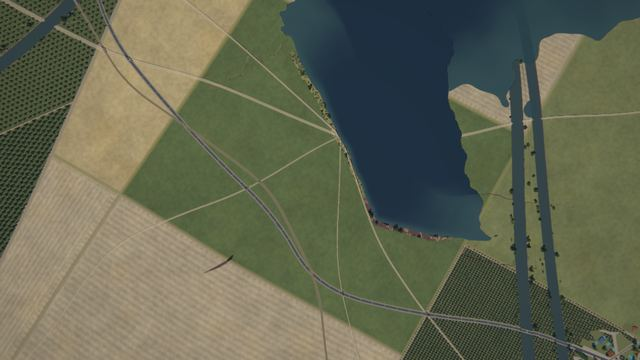
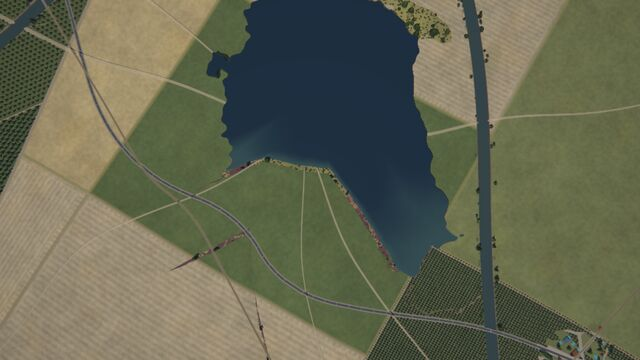
docs: Known limits for the desert, tropical, temperate, cold and agriculture kits; qanats, ranches and feedlots, river water, fishbone, settlement water / exact sites / glow; stills (lake, qanats, feedlot, white- and black-water rivers, fishbone); CHANGELOG

diff --git a/docs/kits/settlements.md b/docs/kits/settlements.md
@@ -74,8 +74,17 @@ cars belong to the transport kit.
 ## Placement and levels of detail
 
 Places of a level are listed (as stamps) for tile areas whose pixel is below 150 m (hamlets),
-800 m (villages), 3 km (towns), 12 km (cities), 50 km (metropolises): a place covers at most
-~0.2 pixel when it is dropped. Sites: airports and ports below 600 m, dams below 1.2 km,
+800 m (villages), 3 km (towns), 12 km (cities), 50 km (metropolises). At coarser pixels the
+level's **glow** takes over (`glow`, WGSL `st_glow`, slot 7): the places expected at the pixel
+(`places::expected_places`: the existence draw of `base_place` by population potential, culture
+and `landuse.towns`, its population and radius draws integrated over their hashes, calibrated
+against the final places by `GLOW_CAL`) times the place model's mean over a footprint (street
+light emission and built cover per R², `GLOW_K*`, `GLOW_J`): a grey urban tint and the street
+lights' mean, so the mean of a coarse pixel matches the finer zooms' and night views from
+altitude keep their lights (a smooth glow following the population instead of discrete spots).
+`glow_keeps_the_mean` (GPU) compares a parent tile's mean emission with its four children's at
+the zooms where a level drops, over eight populated places: 0.99 (z10, hamlets), 1.06 (z7,
+villages), 0.83 (z5, towns), 0.99 (z3, cities). Sites: airports and ports below 600 m, dams below 1.2 km,
 quarries and solar farms below 300 m, wind farms below 150 m, flares below 2.5 km. All host
 results are memoized per lattice cell or place (pure functions of the world).
 
@@ -87,9 +96,28 @@ results are memoized per lattice cell or place (pure functions of the world).
 * **The core's grid towns are off with the kit** (`Kit::replaces_towns`, `kits::legacy_towns()`,
   WGSL `KITS_LEGACY_TOWNS`): no town site in pass A, no town requests, no town code in pass B.
   The core's farmsteads stay (dispersed farmsteads between the hamlets).
-* **No river access in the scores**: the CPU drainage per candidate costs too much for an
-  analytic API; water access comes from the atlas coast distance. Dams use the CPU drainage
-  (`World::river_segments`, levels 0–1) on the host, once per dam source.
+* **Water in the scores** (hamlets and villages): a candidate whose centre lies in open water
+  (pass A at the point, `World::terrain`: the sea, lattice and closed-basin lakes, the kits'
+  lakes, a level 0–1 river channel) is dropped; water on a ring of 4 points at 0.8 × the level's
+  smallest radius lowers its score (× 0.3–1), a level 0–1 river within 2.5 km raises it (up to
+  × 1.3: crossings, mills, river ports). Host Rust, analytic, the same for both backends. Towns
+  and larger keep the smooth-relief test only: the transport kit's trunk networks visit their
+  candidates over thousands of kilometres (370 000 town candidates for one 2.5 km view), where
+  pass A at points (~2 ms) costs minutes; at villages and hamlets the test costs ~7 % of a
+  survey view's generation. (The transport routing's `Scene` was tried first: a scene per
+  block costs ~70 ms.) Reservoirs come after
+  the places (dams are placed near towns): hamlets and villages whose centre a reservoir floods
+  (> 1 m) are drowned (not drawn; `sites::drowned`), and a dam whose reservoir would flood a town
+  or a city is not built.
+* **Sites are the same on both backends**: their decisions take the backend's point samples where
+  they are clear by a margin (`sites::TIE_H` = 0.5 m) and re-take close ones with exact samples
+  (`World::terrain`, the CPU backend's own): airports evaluate their candidates in the order of
+  their backend range until the next cannot beat the best exact one, dams likewise by score (a
+  candidate near a threshold first), ports re-sample the ray samples near sea level or a lake's
+  level, quarries, wind farms, flares and solar farms near a threshold; the heights a site keeps
+  (airport grade, dam crest, wall ends, quarry floor) come from exact samples.
+  `sites_and_routes_match_the_cpu` (GPU) checks the stamps and segments of six places bit for
+  bit (the decks of engineered road profiles aside).
 * **Quarries change the DSM only** (pass B): the drainage does not see the pits.
 * **Pass B in four stages** (`[0, 3, 5, 7]`): the kit's built layer is in the linear–built stage,
   its water layer (reservoirs, dams, port piers) in the canopy–seasonal stage.
@@ -114,6 +142,11 @@ N-S, determinism (fresh generators and caches), `tiles_match_the_cpu` (22 tiles 
 kernel parity test).
 
 ## Compile time and performance
+
+After the leftover round (water, exact sites, glow; all kits): P4 cold pass B 31.4 / 28.6 / 19.7
+/ 26.0 s (the glow adds ~1.4 s to the linear–built stage; the first stage, unchanged, varies
+±1.5 s with the farm's load), points 22.7 s, drainage heights 17.3 s. The water test costs ~7 %
+of a survey view's generation (59.6 s vs 55.7 s for a 2.5 km nadir view).
 
 Cold compile on a Tesla P4 (`compile_times`, one pipeline at a time, all eight kits): pass B
 31.2 / 29.1 / 16.7 / 25.3 s in four stages (the first two stages do not contain the kit); pass
@@ -161,9 +194,12 @@ villages and farmsteads as points.
 
 ## Known limits
 
-* Places score flatness and coast access, not rivers; a town may sit on a lake shore or across
-  a small valley, and its lots do not follow the terrain beyond the slope gate and the river
-  banks.
+* Only hamlets and villages test their centres against pass A's water and score rivers; towns,
+  cities and metropolises keep the smooth-relief sea test (their candidates are too many for
+  point evaluations), so a town's centre can still lie in a lake or a river. A town's lots do not follow the terrain beyond the slope gate and
+  the river banks; its footprint may still reach into a lake or river.
+* Confluences and river mouths get no extra bonus beyond the river's proximity (the coast bonus
+  is the atlas coast distance).
 * Streets are not connected between districts (district edges are arterials) nor to the core's
   rural roads; the transport kit's graph will link places.
 * Towers cast shadows only within their own block (3 steps of 3.5 m); tall towers' long shadows
@@ -177,7 +213,11 @@ villages and farmsteads as points.
 * Ports exist where a point-sample ray finds the ocean within R + 12 km (10 of 13 coastal towns
   in `debug_ports`); estuaries and lakes have no ports.
 * Quarries are pass-B pits; their floors are not drainage sinks.
-* Hamlets below 150 m pixels, villages below 800 m, towns below 3 km are not drawn (their lights
-  vanish from night views at those zooms).
+* Hamlets below 150 m pixels, villages below 800 m, towns below 3 km are drawn as the expected
+  glow, not as places: the mean matches (statistically, over many places), the texture does not
+  (a smooth glow following the population field instead of discrete spots, also where the
+  actual places of a region happen to be few).
+* Reservoirs drown hamlets and villages (they are not drawn) instead of moving them; the
+  transport kit's graph still routes to them and ends its roads at the shore.
 * Night lights: no lit facades of towers beyond the window rims, no interchange lighting
   (transport kit).

diff --git a/docs/kits/tropical.md b/docs/kits/tropical.md
@@ -54,6 +54,21 @@ lists and costs ~5 cell hashes per sample after the bound test.
 | `tropical_cloud_forest` | zone below 17.5 °C | dense low mossy canopy, tree ferns, landslide scars on steep slopes |
 | `tropical_paramo` | zone below 10 °C | tussock grass, silvery frailejón rosettes, tarns |
 
+**River water** (slot 8, `rivers`; design P0): tropical lowland rivers take the colour of their
+water. Major rivers (half width > 25 m) are white-water (café au lait, lighter where wide); the
+smaller ones are black-water (tea-black) in the very wet lowlands (moisture > 0.62) of a
+regional style channel's provinces, else muddy; so black tributaries meet a muddy main stem. The
+colour takes over from the core's between 18 and 21 °C and below 600–900 m.
+
+**Fishbone deforestation** (canopy slot, `fishbone`; design P3): colonization projects in the
+rainforest lowlands (22 km blocks of the tangent plane of a 200 km anchor, 30 % of them by a
+hash; the climate gates the forest, development ≤ 0.65): a trunk road through the project,
+feeder roads every 4.4 km at right angles, and along every road lots of 250 m each cleared from
+the road to a depth of its own (to 3 km, deeper near the trunk road: older) — pasture, fresh
+burns, red soil, crops, regrowth — so the clearings form fishbones from altitude. Red laterite
+tracks; the clearings reset the canopy's height and shadows. The kit's own spines, not the
+transport kit's roads.
+
 Laterite: red soils (`laterite` palette, `vegetation.laterite`) in every lowland biome. Cloud
 forest and páramo are the altitudinal zones of the forest and savanna biomes (`zonation`); they
 are never picked by an ecoregion (an impossible envelope keeps them out of the nearest-envelope
@@ -73,8 +88,6 @@ Classes (v2): `tropical_rainforest`, `mangrove`, `broadleaf_forest`, `woodland`,
   along-coordinate `s`, its curvature sign and the bend's inner side in `Local`; meandering
   channels need the drainage to meander. The kit draws meander *scars* beside the rivers
   (a mask on `river_dist` and `floodplain`), not the river's own bends.
-* **River colour by ecoregion** (muddy white-water, black-water, sediment plumes): a palette
-  entry for the river surface read by `layers::water::rivers`.
 * **Coast distance at pixel resolution.** `coast_km` comes from ~20 km atlas texels and can miss
   the pixel coast by hundreds of km (237 km at a beach of the default world), so the mangroves
   use the height near sea level instead.
@@ -114,6 +127,17 @@ floodplain (in the core alone this place was mostly fields).
 
 ![oxbow lake 300 m](images/tropical_oxbow_300m.jpg)
 
+**River water**: a white-water river (21.212, −20.262), nadir 800 m; a muddy and a black-water
+river side by side (4.628, 5.338), nadir 800 m.
+
+![white-water river 800 m](images/tropical_whitewater_800m.jpg)
+![black-water river 800 m](images/tropical_blackwater_800m.jpg)
+
+**Fishbone deforestation** (−5.520, 111.780), nadir 12 km: ribs of cleared lots along the
+feeder roads of two colonization projects in the forest.
+
+![fishbone 12 km](images/tropical_fishbone_12km.jpg)
+
 **Monsoon forest mosaic** (−17.95, −128.59): semi-deciduous forest and savanna glades, small
 burns and swidden plots.
 
@@ -141,3 +165,28 @@ burns and swidden plots.
   "rainforest" and "savanna" places are no longer tropical biomes in the atlas world) the
   difference is within the run-to-run noise (±2 %).
 * `places` and `find_places` (ignored) list where the biomes and features occur.
+
+## Known limits
+
+* Burn scars are large blobs of one age with a uniform charred interior (ash streaks aside) and a
+  lobate edge: from 1.5 km they read too uniform; fires do not stop at roads, rivers or fields.
+* Flowering crowns (yellow, pink-red) are saturated and evenly spread: from altitude the canopy
+  shows confetti-like dots.
+* Meander scars, oxbows and scroll bars are drawn beside the rivers (a mask on `river_dist` and
+  `floodplain`), not as the river's own bends: the live channel keeps the core's smooth
+  meander, so oxbows lie next to a river that does not meander at their scale.
+* Mangroves are rare in the default world: they need low tropical coasts below ~3–5 m inside
+  tropical ecoregions, and near-shore water whose ecoregion site lies at sea takes that site's
+  biome (see *What needs the core*). No still shows them yet.
+* River water by type (white-water, black-water) is a per-pixel choice by the river's width,
+  the moisture and a regional style channel: a tributary can change colour where the style
+  channel crosses its threshold, not only at its confluence.
+* No deltas: river mouths end at the coast without distributaries or sediment lobes (the design's
+  pass-A delta stamps at level-0 mouths are not built: the mouth must be found on the drawn coast,
+  not at the coarse drainage lattice's sea points, and the lobes must be relief).
+* Fishbone projects follow their own spines (a grid in the plane of a 200 km anchor), not the
+  transport kit's roads, and end at their 22 km block's edges; their feeder roads are 6 m tracks
+  (invisible from 12 km, where only the ribs of clearings show); red bare-soil lots read
+  saturated; the clearings ignore rivers and slopes below the 0.3 gate.
+* Rivers that join run side by side for a while before their confluence (the core's drainage
+  curves meet tangentially), as in the black-water still.

diff --git a/docs/kits/desert.md b/docs/kits/desert.md
@@ -59,6 +59,16 @@ outside the sand seas.
 braided threads of gravel and sand bars parallel to the banks that merge and split; acacia and
 tamarisk along them, oasis gardens and date palm groves on some stretches (biome layers).
 
+**Qanats.** Underground channels from a mother well at the foot of the mountains down to an
+oasis, seen as dotted lines of shaft mounds: rings of pale spoil 8–13 m across around a dark
+shaft every 30–55 m. Host-built (`qanat_group`, shared by both backends): a lattice of 9 km
+cells holds a group where the culture digs them (desert oasis, highland, steppe and
+Mediterranean archetypes, fewer with development), the climate is arid and warm and the ground
+a piedmont (the smooth relief's slope 0.8–6 % with mountains near); 1–3 lines fan out upslope
+from a common outlet, each 3–8 km long with a bend, as segments of kind 64. The layer (slot 6,
+`qanats`) draws the mounds, or their mean along the line where they are below the pixel; not
+in sand seas. Listed below 60 m pixels.
+
 **Colour and biomes.** Sand takes the biome's sand palette by the regional style, tinted by the
 ecoregion's lithology: iron-red on crystalline rock, pale on carbonate, yellow on unconsolidated
 sediment, dark grey to black (class `volcanic_ash`) on volcanic rock. Biomes (by Köppen class,
@@ -90,6 +100,7 @@ GPU renders of the default world (`terrain survey`, 10:30 local solar time, equi
 | ![linear dunes, 10 km](images/desert_linear_10km.jpg) linear (seif) dunes and dark corridors, 10 km (23.54, 43.23) | ![star dunes, 1.5 km](images/desert_star_1500m.jpg) star dunes, 1.5 km (−31.15, −166.35) |
 | ![barchans, 1.5 km](images/desert_barchans_1500m.jpg) barchans on the stony fringe of an erg, 1.5 km (20.84, −50.06) | ![barchans, 300 m](images/desert_barchans_300m.jpg) a barchan, varnish and sand streaks, 300 m |
 | ![playa, 300 m](images/desert_playa_300m.jpg) salt crust and cracks of a playa, 300 m (−11.86, −162.15) | ![dry lake, 1.5 km](images/desert_drylake_1500m.jpg) a lake dried into a salt pan with brine pools, 1.5 km (−12.41, −155.10) |
+| ![qanats, 800 m](images/desert_qanats_800m.jpg) two qanat lines of shaft mounds converging downslope, nadir 800 m (27.049, 34.401) | |
 
 ## Performance
 
@@ -123,3 +134,23 @@ so they cost little outside deserts.
 * ignored tools: `desert_places` (places of the default world by landform),
   `desert_previews` (`DESERT_PNG=dir`, nadir rgb and hillshade at the kit's places or
   `DESERT_AT="lat,lon;…"`, `DESERT_Z`, `DESERT_CPU`), `desert_probe`.
+
+## Known limits
+
+* Desert varnish and gravel mottling are noise patches (`patches` kernel layers): from 1.5 km up
+  they read as blotches of uniform size rather than varnish streaks following the slope.
+* The core's drainage still runs through the sand seas: where the sand mask is high the kit
+  takes the dunes over but not the channels, so a regular grid of straight washes can cross an
+  erg (the core does not yet skip drainage carving where `sand` > 0.5).
+* Lakes inside ergs are drawn as water in humid-enough cells (the dry-lake layer dries them
+  only where the climate is arid); an erg with an open lake can result at its wetter margin.
+* Playas and inselbergs are families of 36 km and 16 km cells: at zooms 8–9 a few blocks list
+  more than 8 instances and the generator warns (both backends keep the first 8 by id; deeper
+  zooms are unaffected).
+* Dunes are relief of pass A, barchans a height added in pass B (not in the DTM or the
+  drainage); yardangs are colour and pass-B height only.
+* Star dunes are 100–300 m high and up to 1.15 km in radius, smaller than the largest real
+  ones (Badain Jaran); linear dunes do not branch around obstacles (inselbergs, playas).
+* No stills yet of inselbergs, yardangs or the gypsum and basalt biomes.
+* Oases, palm groves and qanats are drawn by the agriculture kit (groves) and this kit
+  (qanats, below the oasis fields); see their sections.

diff --git a/CHANGELOG.md b/CHANGELOG.md
@@ -2,6 +2,41 @@
 
 ## Unreleased
 
+- **Qanats** (desert kit, design P2): dotted lines of shaft mounds (pale spoil rings around a
+  dark shaft every 30–55 m) from the piedmont down to a common outlet, 1–3 lines of 3–8 km per
+  group; host segments (`qanat_group`, 9 km lattice, by culture, aridity and the smooth relief's
+  slope), drawn in slot 6 with their mean along the line below the pixel.
+- **Ranches and feedlots** (agriculture kit, design P2): a `ranch` field system (2.2 × 1.5 km
+  paddocks, stock trails to troughs, farm dams, savanna trees where warm), weighted to semi-arid
+  steppe climates and pastoral, steppe and survey-grid cultures; feedlots in some ranch regions
+  (slot 6): pens of dark manure along feed alleys and bunks, cattle, a feed mill with silage
+  bunkers and silos, two manure lagoons.
+- **Fishbone deforestation** (tropical kit, design P3): colonization projects in the rainforest
+  lowlands with a trunk road, feeder roads every 4.4 km and lots of 250 m cleared from the roads
+  to depths of their own (pasture, fresh burns, red soil, crops, regrowth), in the canopy slot.
+- **Tropical river water** (tropical kit, design P0): white-water rivers in café au lait, black-
+  water rivers (tea-black) in the very wet lowlands of a regional style channel's provinces,
+  slot 8 over the core's river colour.
+- **Known limits** sections in the desert, tropical, temperate, cold and agriculture kit docs.
+
+- **Settlements avoid open water and like rivers.** Hamlet and village candidates whose centre
+  lies in the sea, a lake or a level 0–1 river channel (pass A at the point) are dropped, water
+  on a ring around a candidate lowers its score, a river within 2.5 km raises it (design §6.1
+  water access); towns and larger keep the smooth-relief test (their candidates are visited
+  over continents by the transport kit's trunk networks). Hamlets and villages flooded
+  by a reservoir are drowned (not drawn), and a dam that would flood a town or a city is not
+  built. Test `places_avoid_open_water` (0 of 362 centres in pass A's water).
+- **Sites are backend-independent.** Airports, dams, ports, quarries, solar and wind farms and
+  flares take close decisions (within 0.5 m of a threshold or of a competitor) with exact
+  samples (`World::terrain`, the CPU backend's own) and keep exact heights, so GPU (f32) and CPU
+  (f64) point samples build the same sites, and the transport kit the same network: new GPU test
+  `sites_and_routes_match_the_cpu` (stamps and segments bit for bit at six places).
+- **Settlement glow at low zooms.** Where a level's places are no longer listed (hamlets below
+  z11, villages below z8, towns below z6, cities below z4), the settlements kit draws their
+  expected built cover and street lights per pixel (`places::expected_places` × the place
+  model's mean over a footprint, calibrated against the final places), so night views from
+  altitude keep their lights and coarse pixels keep the finer zooms' mean.
+
 - **Drainage: no straight trenches into inland basins.** A lattice point without a lower
   neighbour looked up to 3 cells farther for an outlet anywhere; inland that drew channels up to
   24 km long, straight across the higher ground between (canal-like water strips, several

diff --git a/docs/kits/agriculture.md b/docs/kits/agriculture.md
@@ -27,6 +27,14 @@ share for the core's fields. Systems change at region and ecoregion borders, nev
 | greenhouse seas | white plastic bays in different states, irrigation ponds |
 | pastures | paddocks, livestock trails to troughs, farm dams, hay meadows, savanna trees in warm climates |
 | irrigated pivots | centre pivots in the desert |
+| ranches | huge fenced paddocks (2.2 × 1.5 km), stock trails converging on troughs, farm dams, savanna trees where warm; feedlots |
+
+**Ranches and feedlots** (design §5.8, P2). Ranches weigh most in semi-arid steppe climates (BSh,
+BSk × 3), on tropical savannas, in the survey-grid, steppe and pastoral cultures; never in oceanic
+or polar ones. Some ranch regions (20–65 % by development) hold a **feedlot** (slot 6,
+`feedlot`, in the region frame): a lot of 440–960 × 280–600 m of pens (40 × 60 m) in double rows
+along 12 m feed alleys with concrete bunks, dark manure, cattle; a feed mill with silage bunkers,
+a shed and silos at one end; two manure lagoons in embankments beyond the other. No pivots.
 
 Parcels are crisp units with hashed ids; rows, furrows, crowns and trails are band-limited and
 blend to the system's mean at coarse pixels. Field tracks only: roads are the transport kit's.
@@ -65,6 +73,11 @@ equinox. Lat, lon in brackets.
 ![greenhouses](images/agriculture_greenhouse_1500m.jpg)
 ![pasture](images/agriculture_pasture_1500m_nadir.jpg)
 
+**Ranch with a feedlot** (16.294, 149.333), nadir 2.5 km: pens along feed alleys, the feed mill
+at the west end, two manure lagoons east of the lot; ranch paddocks with savanna trees around.
+
+![feedlot 2.5 km](images/agriculture_feedlot_2500m.jpg)
+
 ## Tests
 
 * `registry_compiles`, `wgsl_tables_are_current` (`AERIALSYNTH_BLESS=1` rewrites the tables),
@@ -87,3 +100,20 @@ kit's `KITS` entry commented out (mean of two runs, tiles/s; shared machine, +-3
 | z12 | 114.7 | 112.9 | 1.5 % |
 | z14 | 111.6 | 108.4 | 2.9 % |
 | z16 | 116.8 | 113.5 | 2.9 % |
+
+## Known limits
+
+* Smallholder mosaics read as a fine speckle at 10 km: their 20–60 m plots are just above the
+  pixel there, so each pixel takes one plot's colour (salt and pepper) instead of a smoother mean.
+* Bright parcels (greenhouses, fallow, fresh stubble) read as white quadrilaterals in high
+  oblique views (10 km and above) where the region's system has large parcels.
+* One field system per land-use region (~7 km): systems change at region and ecoregion borders,
+  along the region lattice's (warped) cell edges, not along roads or rivers.
+* Parcels are laid out in the region's frame and do not follow the transport kit's roads: field
+  edges and road verges cross at arbitrary angles; only the kit's own field tracks belong to
+  the parcels.
+* Crop states come from the ecoregion's season, not from a date (paddies flooded, green or ripe
+  per ecoregion); the renderer's seasons are not yet wired to the fields.
+* Terraces are contour stripes of pass B (colour and DSM height), not steps of the DTM.
+* Ranches and feedlots are drawn only in the semi-arid grazing systems (see *Ranches and
+  feedlots*); there is no aquaculture inland (salt and aquaculture ponds belong to the coast).

diff --git a/docs/kits/transport.md b/docs/kits/transport.md
@@ -238,7 +238,7 @@ running alongside, cleared verges; **switchbacks** on a snowy slope (−24.187, 
 ![switchbacks 400 m](images/transport_switchbacks_400m.jpg)
 
 **Around a lake** (−7.486, −18.715): a major road bends round the lake's southern shore,
-local roads end on the shore where a hamlet's centre lies in the water; **river crossing**
+local roads end on the shore; **river crossing**
 (−7.547, −18.796): two secondary roads cross a 134 m river side by side at the narrowest,
 square-on reach.
 ![lake 800 m](images/transport_lake_800m.jpg)
@@ -276,9 +276,9 @@ road and a track through forest nearby (−7.619, −16.609) from 500 m.
   dropped (the graph adds no alternative): 2–5 % of the edges in lake districts and around
   reservoirs, 0–2 % elsewhere (`routing_time`, `TR_WHY=1` lists them). Ends in water (a hamlet in a
   reservoir, a track end in a lake) move to the shore, leaving the road short of the place.
-* Sites need point samples, so routes now depend on them too: within a process the site cache
-  makes both backends share them; across processes (GPU f32 vs CPU f64 samples) an airport whose
-  candidates score within a hair of each other could move and with it a route.
+* Sites need point samples, so routes depend on them too; the settlements kit re-takes close
+  site decisions with exact samples, so both backends build the same sites and routes
+  (`sites_and_routes_match_the_cpu`).
 * River crossings are counted in each drainage level's meander-warped space between the grid
   nodes, an approximation of the drawn channel: crossings are near perpendicular (mean sin 0.87
   at the verification's crossings), but their number is mostly set by the network (a road

diff --git a/docs/kits/cold.md b/docs/kits/cold.md
@@ -91,3 +91,22 @@ ponds.
   is ragged with fine noise and a snow net along ~18 m polygon troughs.
 * The temperate kit's `forestry` is zero where the biome's trees are below 0.6 (forest tundra,
   tundra, polar desert): no managed stands there.
+
+## Known limits
+
+* Snow-covered clear-cuts of the temperate kit's managed boreal forest read as crisp white
+  rectangles in the snowy taiga (kettle still); the cuts and the snow are both correct, but the
+  stands' straight edges are conspicuous under snow.
+* Glaciers, moraines and seasonal snow are pass-B surfaces (colour, class, height in the
+  seasonal slot): the DTM and the drainage keep the valley below them; troughs and cirques come
+  from the mountains kit's carve hook, not from the glaciers drawn here.
+* Sea ice is a function of the atlas' temperature at the ecoregion's date and of the depth: no
+  drift, no polynyas tied to winds or coasts; leads and pressure ridges are noise patterns.
+* Kettle and thermokarst lakes are lattices tested per pixel: their existence near a lattice
+  site's threshold is decided at the site (both backends agree), but the transport kit's routing
+  only estimates their mask from pass A's values and the relief's slope.
+* Drumlin fields take one ice-flow azimuth per field (no fanning around obstacles); eskers are
+  sinuous ridges independent of the drainage.
+* Pingos and polygons ignore the drainage: polygons continue across small streams.
+* The snow line uses the warmest-month temperature and aspect, not avalanche paths or wind
+  redistribution: snow fields have smooth edges on steep ground.

diff --git a/docs/kits/temperate.md b/docs/kits/temperate.md
@@ -113,3 +113,22 @@ kit's `KITS` entry commented out (mean of two runs, shared machine, so +-3 % noi
 | z12 | 120.3 | 117.5 | 2.3 % |
 | z14 | 116.5 | 112.4 | 3.5 % |
 | z16 | 123.4 | 116.8 | 5.4 % |
+
+## Known limits
+
+* Regrowth on clear-cuts is a uniform lime green (grass and fireweed, then young rows): from
+  1.5 km up a cut of a few years reads as a flat bright rectangle; there is no gradient of ages
+  within a stand.
+* Managed stands are a brick pattern of rectangles in the land-use region's frame: their edges
+  are straight and axis-aligned within a region, regardless of slope, streams and roads; under
+  seasonal snow the cuts read as white rectangles in the forest (the cold kit's kettle still).
+* Bogs, string bogs and fens are drawn by masks on the drainage and the relief (no peat
+  hydrology): a raised bog can sit on a gentle slope, and string-bog strings follow a slow flow
+  field rather than the real slope.
+* Autumn colours follow the ecoregion's season, not a date: two ecoregions with different
+  seasons meet in a 10 km mosaic band.
+* Windthrow and firebreaks are rare by design and never cross towns or fields; firebreaks are
+  straight in the region frame.
+* Heathland burning strips and moorland peat hags are colour only (no relief).
+* Cast shadows of the kit's crowns come from the renderer's DSM only (the core bakes `lit` for
+  its own crown layers).
